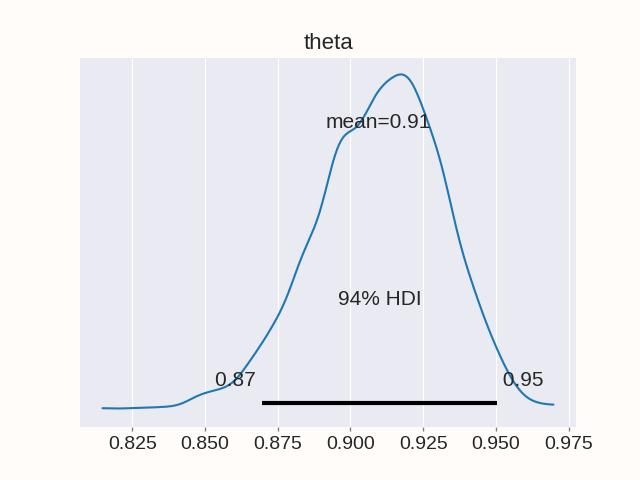
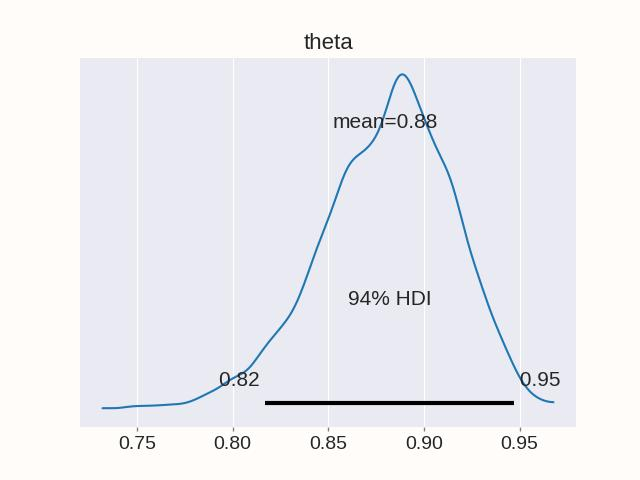
Removed alternative font and new version of beta binomial numbers

diff --git a/_site/beta-binom/index.html b/_site/beta-binom/index.html
@@ -99,32 +99,32 @@ In the figure shown above:</p>
   <tbody>
     <tr>
       <td>top left</td>
-      <td>16</td>
+      <td>15</td>
       <td>2</td>
     </tr>
     <tr>
       <td>top right</td>
-      <td>17</td>
-      <td>3</td>
+      <td>11</td>
+      <td>2</td>
     </tr>
     <tr>
       <td>bottom left</td>
-      <td>18</td>
-      <td>3</td>
+      <td>10</td>
+      <td>2</td>
     </tr>
     <tr>
       <td>bottom right</td>
-      <td>11</td>
-      <td>0</td>
+      <td>14</td>
+      <td>2</td>
     </tr>
     <tr>
       <td>center</td>
-      <td>8</td>
+      <td>22</td>
       <td>1</td>
     </tr>
     <tr>
       <td><strong>total</strong></td>
-      <td>70</td>
+      <td>72</td>
       <td>9</td>
     </tr>
   </tbody>
@@ -151,7 +151,7 @@ and define the data</p>
 <span class="c1"># For reproducibility
 </span><span class="n">rng</span> <span class="o">=</span> <span class="n">np</span><span class="p">.</span><span class="n">random</span><span class="p">.</span><span class="nf">default_rng</span><span class="p">(</span><span class="mi">42</span><span class="p">)</span>
 
-<span class="n">alive</span> <span class="o">=</span> <span class="mi">70</span>
+<span class="n">alive</span> <span class="o">=</span> <span class="mi">72</span>
 <span class="n">death</span> <span class="o">=</span> <span class="mi">9</span>
 <span class="n">total</span> <span class="o">=</span> <span class="n">alive</span> <span class="o">+</span> <span class="n">death</span>
 </code></pre></div></div>
@@ -166,7 +166,7 @@ and alive cell is simply</p>
 <div class="language-python highlighter-rouge"><div class="highlight"><pre class="highlight"><code><span class="n">theta_hb</span> <span class="o">=</span> <span class="n">alive</span> <span class="o">/</span> <span class="n">total</span>
 </code></pre></div></div>
 <blockquote>
-  <p>0.91411</p>
+  <p>0.88889</p>
 </blockquote>
 
 <p>This is a quick solution, however we cannot associate any uncertainty to this number

diff --git a/assets/css/style.scss b/assets/css/style.scss
@@ -6,17 +6,10 @@
 "minima/skins/{{ site.minima.skin | default: 'classic' }}",
 "minima/initialize";
 
-@font-face {
-  font-family: DejavuWeb;
-  font-style: normal;
-  font-weight: 400;
-  src: url('https://fonts.cdnfonts.com/css/dejavu-serif';
-}
-
 
 html, body, form, fieldset, table, tr, td, img {
         font-size: 100%;
-        font-family: Dejavu Serif, DejavuWeb;
+        font-family: Dejavu Serif;
 }
 
 body {

diff --git a/_site/assets/css/style.css b/_site/assets/css/style.css
@@ -744,7 +744,7 @@ table td {
 }
 html, body, form, fieldset, table, tr, td, img {
   font-size: 100%;
-  font-family: Dejavu Serif, Garamond, Georgia;
+  font-family: Dejavu Serif;
 }
 
 body {

diff --git a/_posts/course/2023-08-11-beta-binom.md b/_posts/course/2023-08-11-beta-binom.md
@@ -32,12 +32,12 @@ In the figure shown above:
 
 | square | alive | death |
 |------|-------|-------|
-|   top left    | 16   | 2 |
-|   top right     | 17   | 3 |
-|   bottom left | 18   | 3  |
-|   bottom right  | 11   | 0  |
-|   center       |  8   | 1  |
-|  **total**     | 70   | 9  |
+|   top left    | 15   | 2 |
+|   top right     | 11   | 2 |
+|   bottom left | 10   | 2  |
+|   bottom right  | 14   | 2  |
+|   center       |  22   | 1  |
+|  **total**     | 72   | 9  |
 
 Let us see how can we estimate the viability.
 In the following, we will indicate with $n_a$ the number of alive cells (which is 70)
@@ -61,7 +61,7 @@ cmap = sns.color_palette("rocket")
 # For reproducibility
 rng = np.random.default_rng(42)
 
-alive = 70
+alive = 72
 death = 9
 total = alive + death
 ```
@@ -77,7 +77,7 @@ $$ \theta_{hb} = \frac{n_a}{n_a + n_d}  $$
 ```python
 theta_hb = alive / total
 ```
-> 0.91411
+> 0.88889
 
 
 This is a quick solution, however we cannot associate any uncertainty to this number
